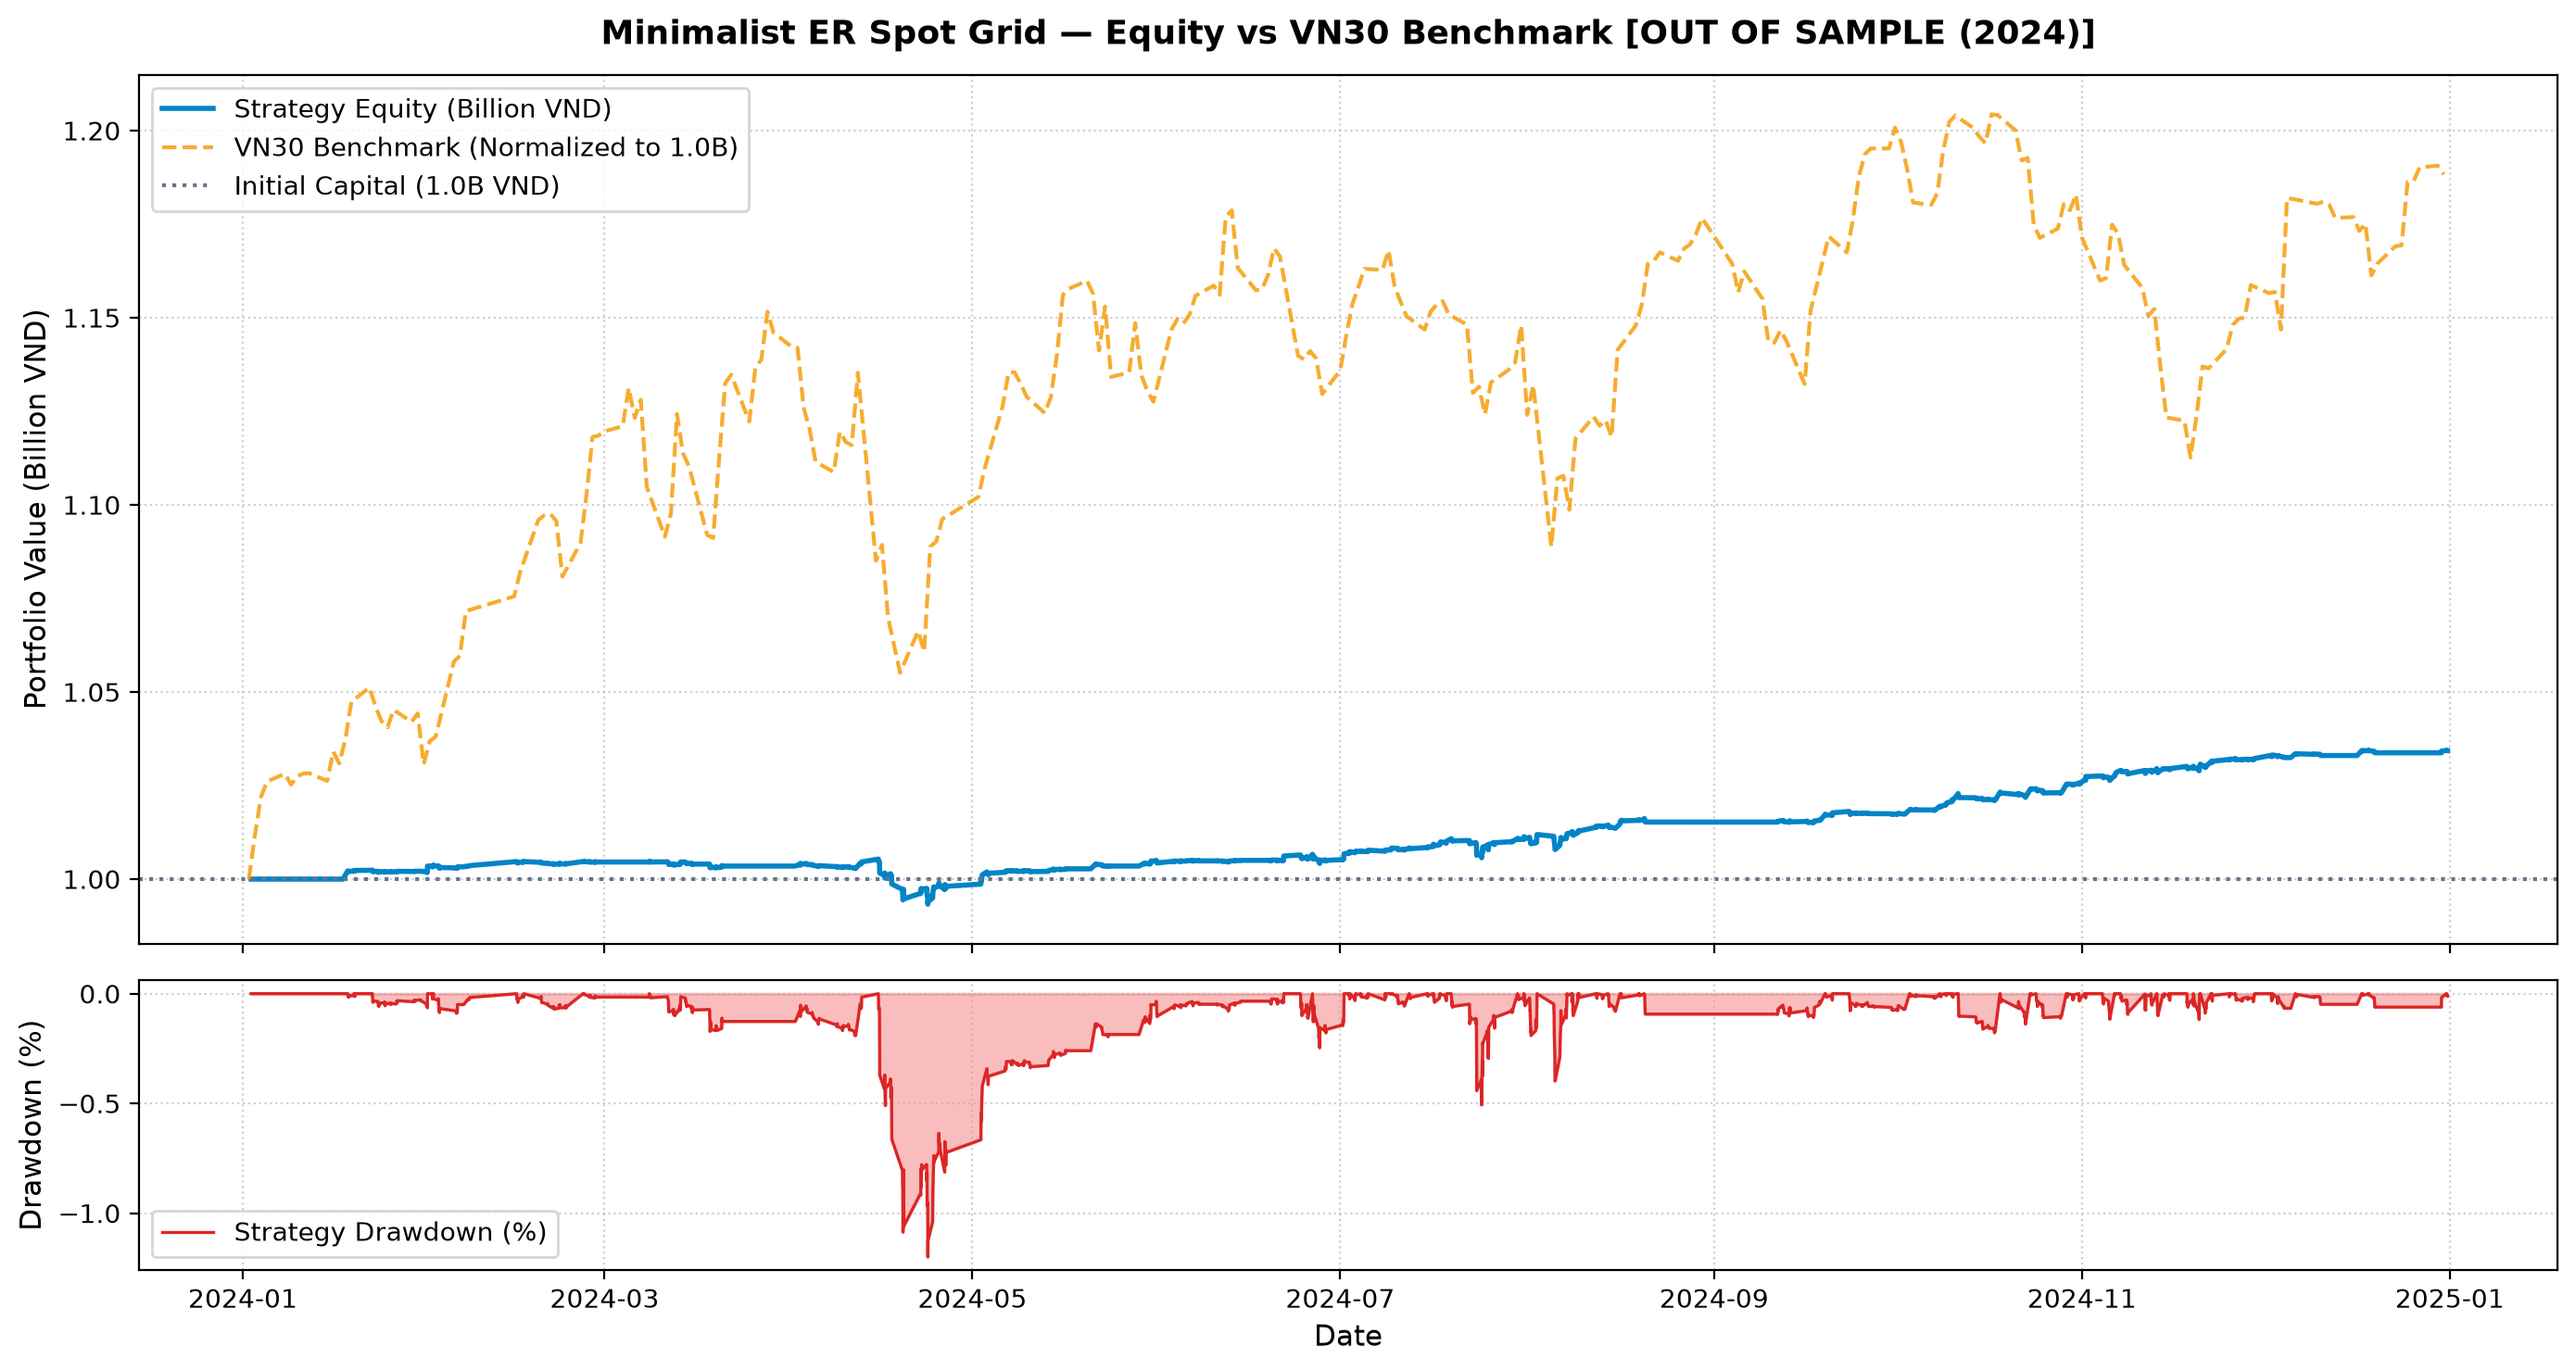
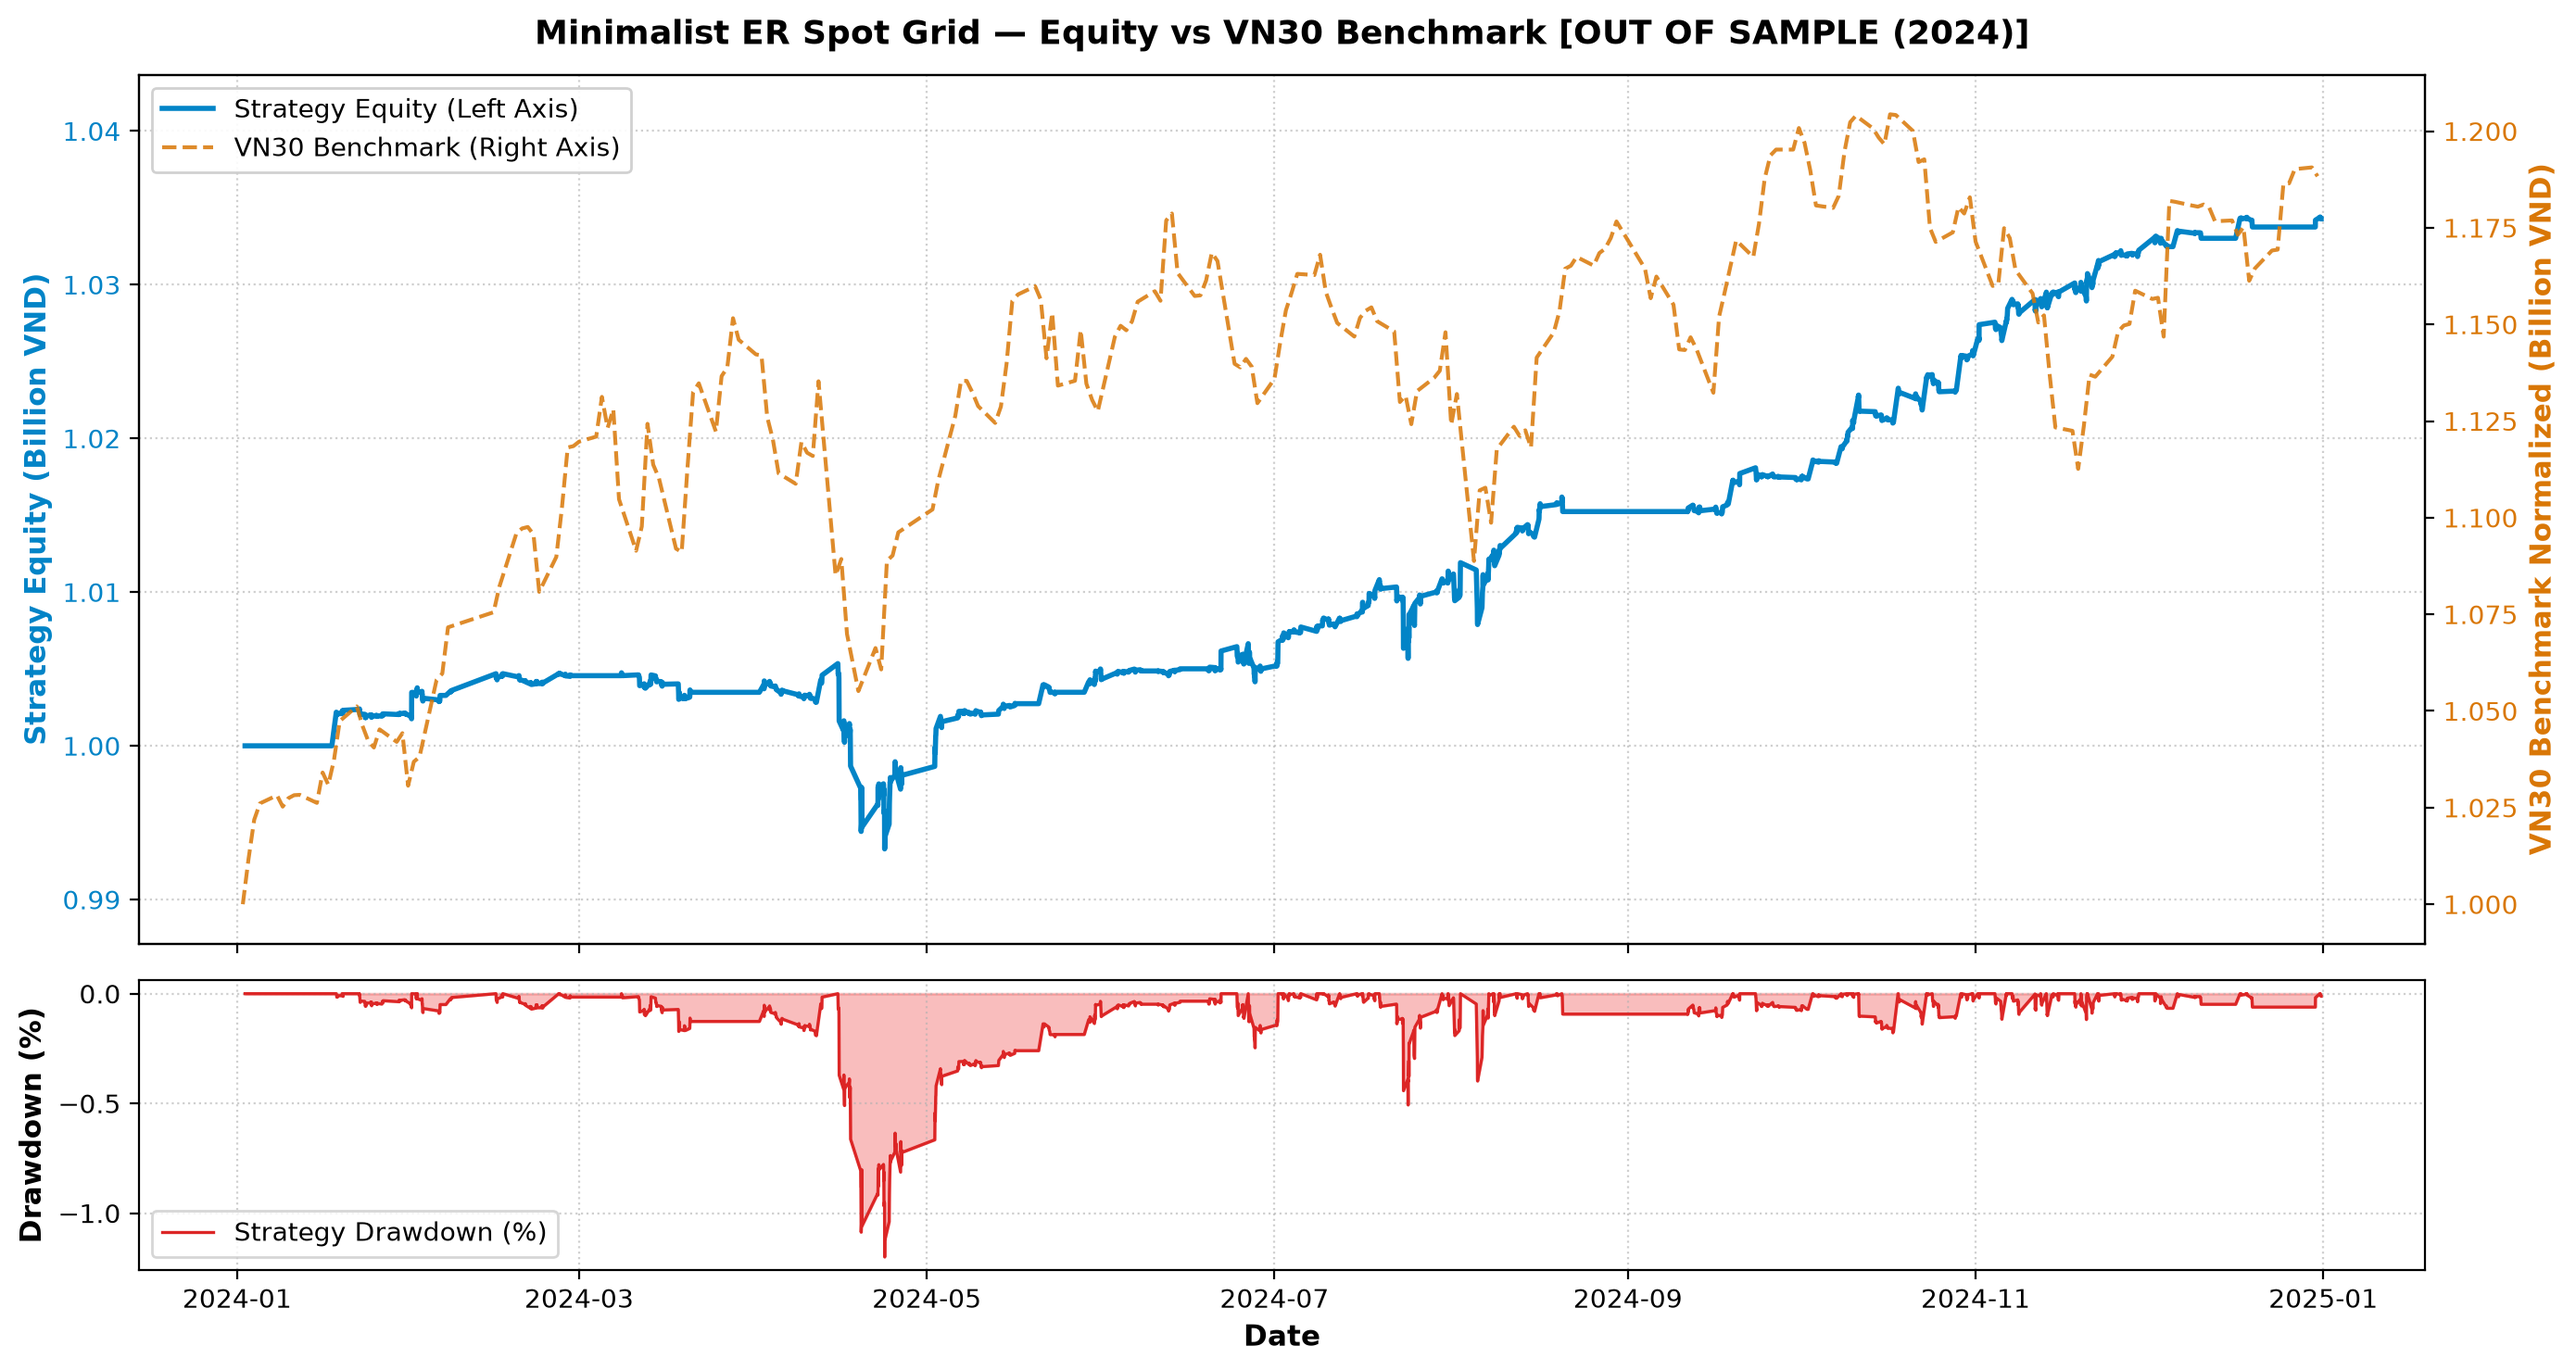
feat(viz): rescale equity curves with dual-axis layout to highlight active trading oscillations

diff --git a/src/logic.py b/src/logic.py
@@ -598,31 +598,49 @@ class MinimalistERGridBacktest:
 def plot_equity_curve(eq_series: pd.Series, initial_capital: float, title: str, output_path: str, bmk_series: pd.Series = None):
     """
     Plots a dual-panel equity curve and drawdown chart, saved cleanly to output_path.
-    Optionally overlays normalized VN30 Benchmark equity for institutional transparency (A-1).
+    Uses dual-axis scaling on Panel 1 so that strategy equity oscillations from active trading
+    are clearly resolved and visible to first-time readers, while maintaining benchmark context.
     """
     os.makedirs(os.path.dirname(os.path.abspath(output_path)), exist_ok=True)
     fig, (ax1, ax2) = plt.subplots(2, 1, figsize=(14, 7.5), gridspec_kw={'height_ratios': [3, 1]}, sharex=True)
     
-    # Panel 1: Portfolio Value
-    ax1.plot(eq_series.index, eq_series.values / 1e9, label='Strategy Equity (Billion VND)', color='#0284c7', lw=2.0)
+    # Panel 1: Strategy Equity (Left Axis)
+    color_strat = '#0284c7'
+    line_strat = ax1.plot(eq_series.index, eq_series.values / 1e9, label='Strategy Equity (Left Axis)', color=color_strat, lw=2.0)
+    ax1.set_ylabel("Strategy Equity (Billion VND)", fontsize=11, fontweight='bold', color=color_strat)
+    ax1.tick_params(axis='y', labelcolor=color_strat)
     
-    if bmk_series is not None and len(bmk_series) > 0:
-        bmk_norm = (initial_capital / 1e9) * (bmk_series / bmk_series.iloc[0])
-        ax1.plot(bmk_norm.index, bmk_norm.values, label='VN30 Benchmark (Normalized to 1.0B)', color='#f59e0b', linestyle='--', lw=1.5, alpha=0.85)
-        
-    ax1.axhline(initial_capital / 1e9, color='#64748b', linestyle=':', label=f'Initial Capital ({initial_capital/1e9:.1f}B VND)')
+    # Dynamic zoom padding on strategy equity to make active trading oscillations vivid
+    eq_min = eq_series.min() / 1e9
+    eq_max = eq_series.max() / 1e9
+    pad = max((eq_max - eq_min) * 0.15, 0.005)
+    ax1.set_ylim(eq_min - pad, eq_max + pad * 1.5)
+    
     ax1.set_title(title, fontsize=13, fontweight='bold', pad=12)
-    ax1.set_ylabel("Portfolio Value (Billion VND)", fontsize=11)
     ax1.grid(True, linestyle=':', alpha=0.6)
-    ax1.legend(loc='upper left')
     
+    # Secondary Right Axis: Normalized Benchmark
+    if bmk_series is not None and len(bmk_series) > 0:
+        ax1_bmk = ax1.twinx()
+        bmk_norm = (initial_capital / 1e9) * (bmk_series / bmk_series.iloc[0])
+        color_bmk = '#d97706'
+        line_bmk = ax1_bmk.plot(bmk_norm.index, bmk_norm.values, label='VN30 Benchmark (Right Axis)', color=color_bmk, linestyle='--', lw=1.5, alpha=0.85)
+        ax1_bmk.set_ylabel("VN30 Benchmark Normalized (Billion VND)", fontsize=11, fontweight='bold', color=color_bmk)
+        ax1_bmk.tick_params(axis='y', labelcolor=color_bmk)
+        
+        lines = line_strat + line_bmk
+        labels = [l.get_label() for l in lines]
+        ax1.legend(lines, labels, loc='upper left', framealpha=0.9)
+    else:
+        ax1.legend(loc='upper left')
+        
     # Panel 2: Drawdown
     peak = eq_series.cummax()
     dd = (eq_series - peak) / peak * 100.0
     ax2.fill_between(dd.index, dd.values, 0, color='#ef4444', alpha=0.35)
     ax2.plot(dd.index, dd.values, color='#dc2626', lw=1.2, label='Strategy Drawdown (%)')
-    ax2.set_ylabel("Drawdown (%)", fontsize=11)
-    ax2.set_xlabel("Date", fontsize=11)
+    ax2.set_ylabel("Drawdown (%)", fontsize=11, fontweight='bold')
+    ax2.set_xlabel("Date", fontsize=11, fontweight='bold')
     ax2.grid(True, linestyle=':', alpha=0.6)
     ax2.legend(loc='lower left')
     
@@ -630,4 +648,5 @@ def plot_equity_curve(eq_series: pd.Series, initial_capital: float, title: str, 
     plt.savefig(output_path, dpi=200, bbox_inches='tight')
     plt.close(fig)
     print(f"Equity curve chart saved to: {output_path}")
+
 
